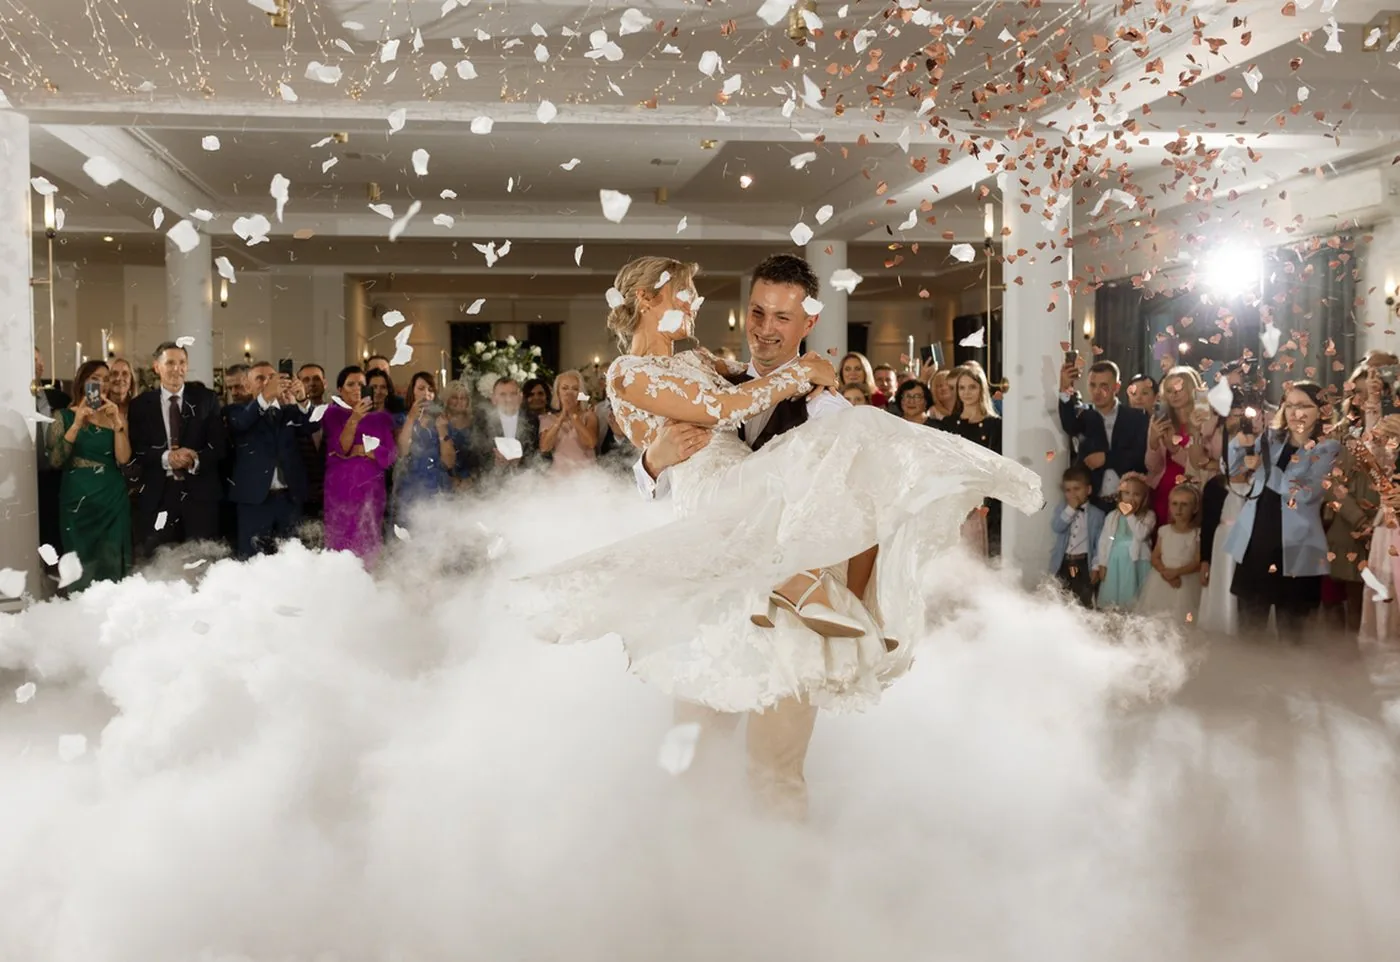
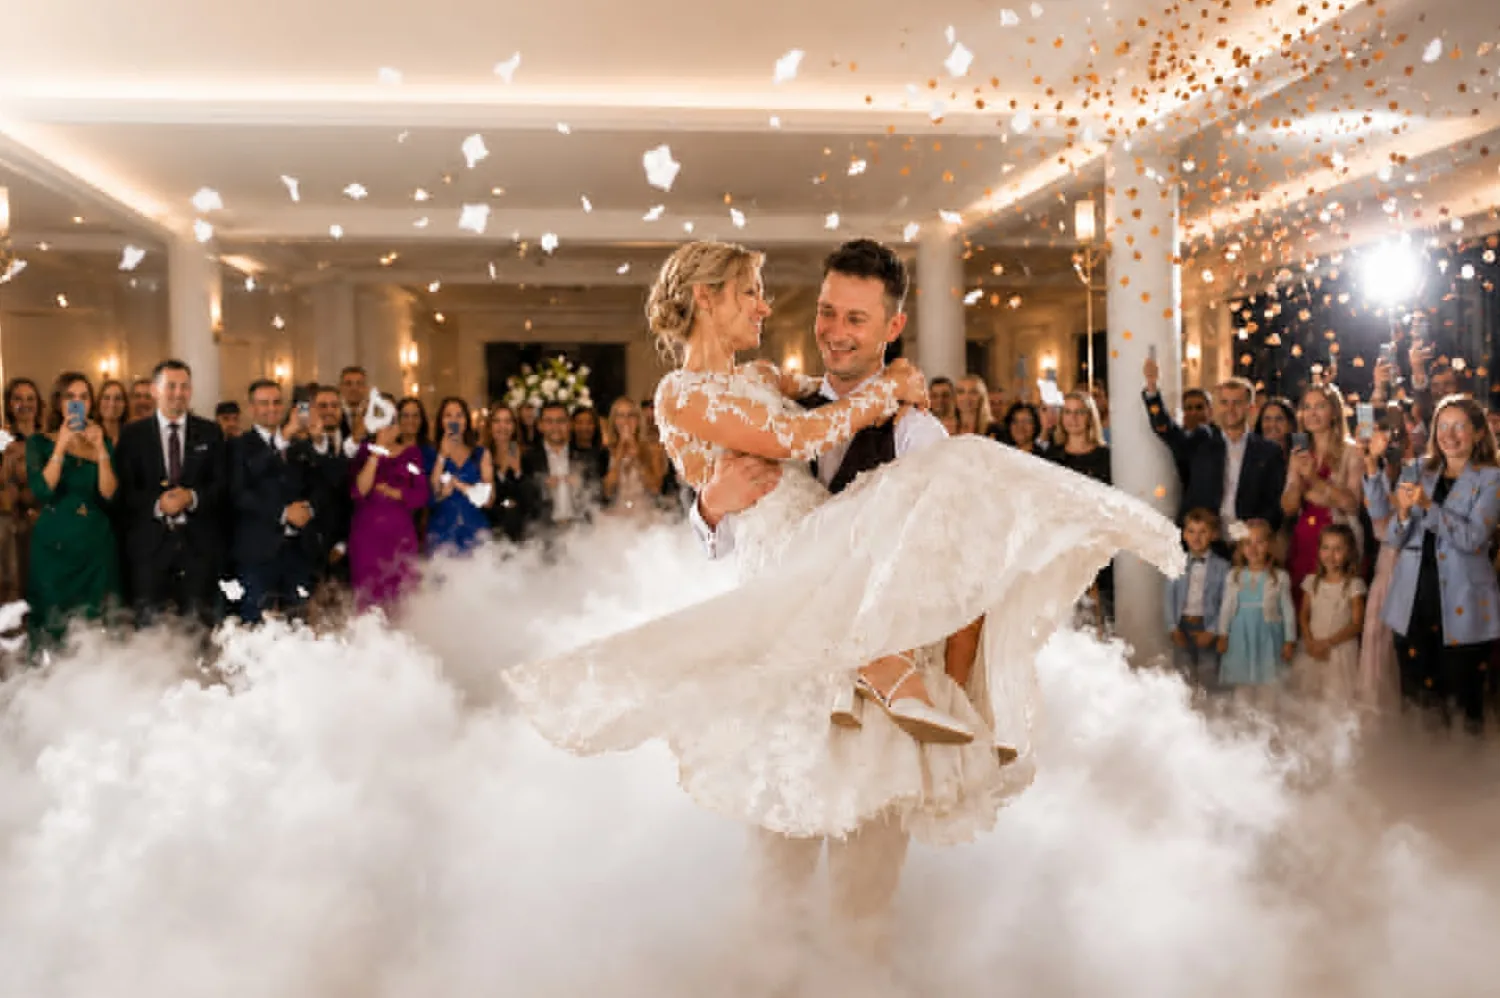
change hero image

diff --git a/src/App.tsx b/src/App.tsx
@@ -402,10 +402,10 @@ function App() {
         <header id="top" className="hero" aria-labelledby="hero-title">
           <img
             src="/img/hero-dance-smoke.webp"
-            alt="Nowożeńcy w pierwszym tańcu otoczeni ciężkim dymem i konfetti"
+            alt="Nowożeńcy w pierwszym tańcu w ciężkim dymie, otoczeni gośćmi i konfetti"
             className="hero__bg"
-            width={1400}
-            height={962}
+            width={1500}
+            height={998}
             fetchPriority="high"
           />
           <div className="hero__overlay" />
